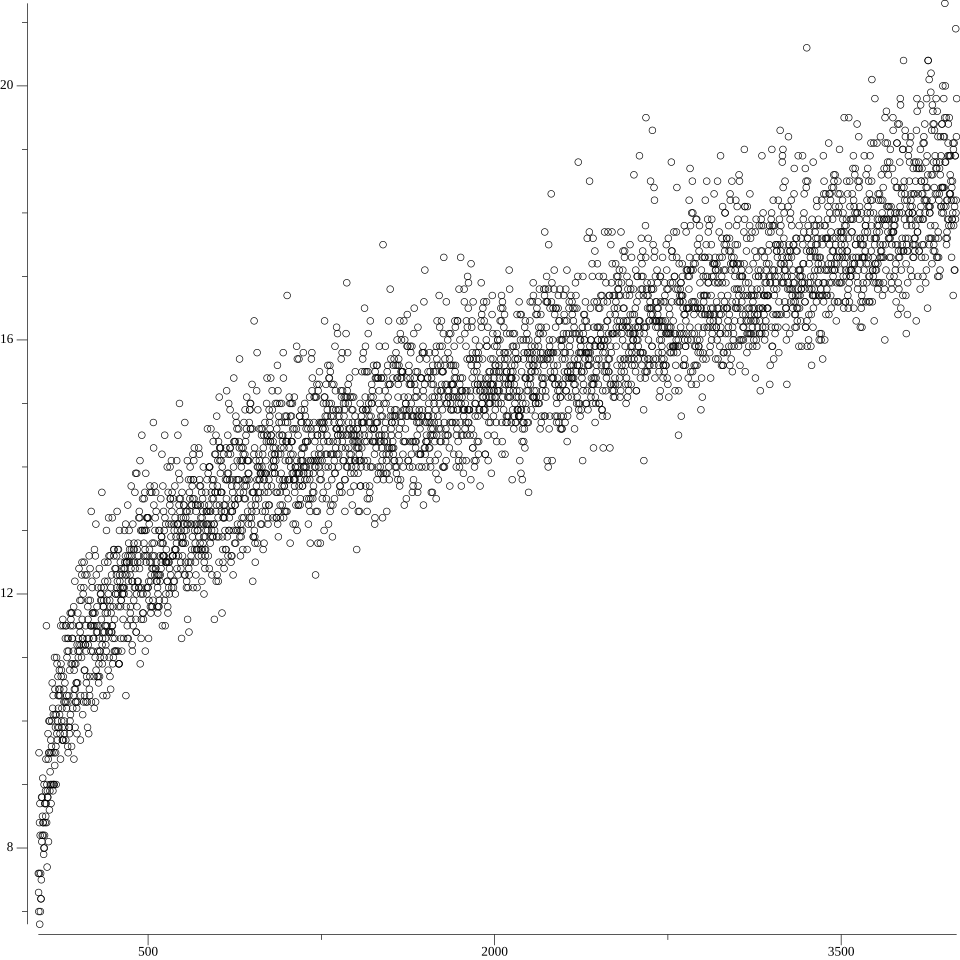
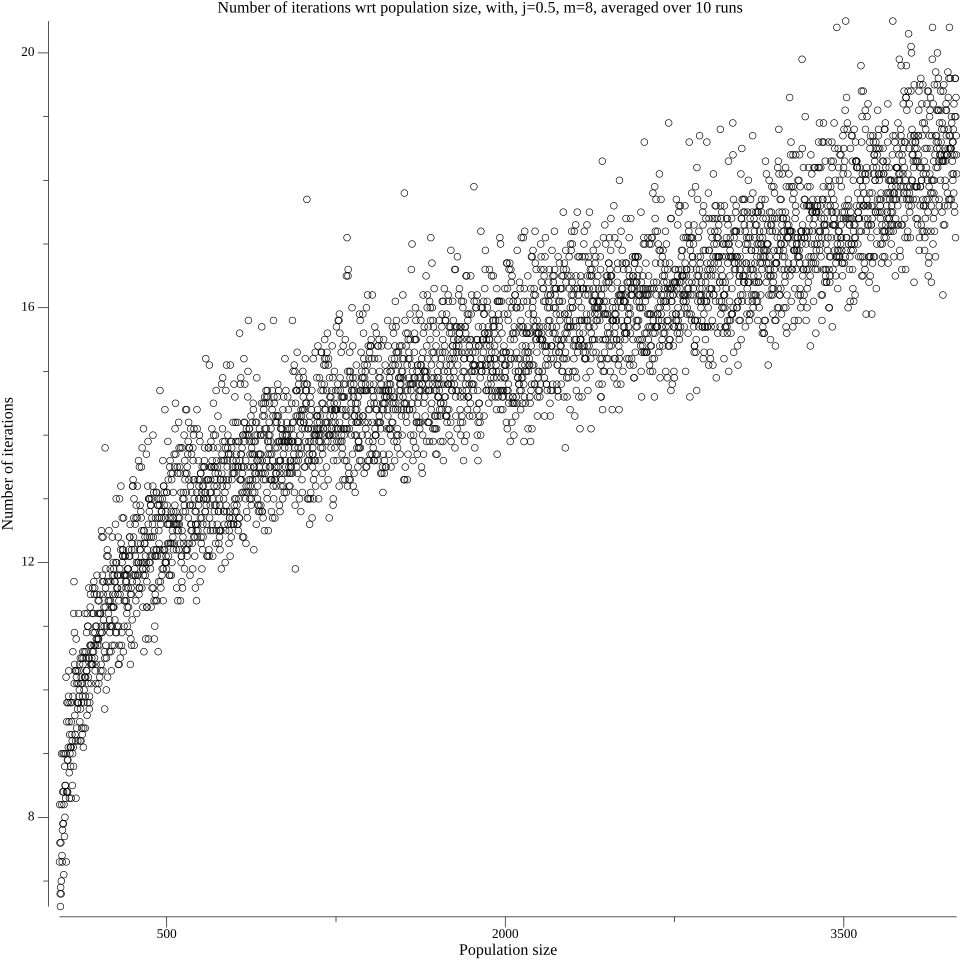
add more plots, fix some things, TODO done

diff --git a/projects/agent_based_modelling/assignment_3/batch/batch.go b/projects/agent_based_modelling/assignment_3/batch/batch.go
@@ -1,6 +1,7 @@
 package batch
 
 import (
+	"fmt"
 	"gonum.org/v1/plot"
 	"gonum.org/v1/plot/plotter"
 	"gonum.org/v1/plot/vg"
@@ -50,6 +51,10 @@ func NumOfIterationsPerPopulationSize(popMin, popMax, runs int) {
 	parallelize(functions)
 
 	p := plot.New()
+	p.Title.Text = fmt.Sprintf("Number of iterations wrt population size, with, j=0.5, m=8, averaged over %d runs", runs)
+	p.X.Label.Text = "Population size"
+	p.Y.Label.Text = "Number of iterations"
+
 	scatter, err := plotter.NewScatter(xys)
 	if err != nil {
 		panic(err)
@@ -98,12 +103,69 @@ func SegIndexPerM(minM, maxM, runs int) {
 	parallelize(functions)
 
 	p := plot.New()
+	p.Title.Text = fmt.Sprintf("Segregation index wrt m, with j=0.5, averaged over %d runs", runs)
+	p.X.Label.Text = "m"
+	p.Y.Label.Text = "Segregation index"
+
 	scatter, err := plotter.NewScatter(xys)
 	if err != nil {
 		panic(err)
 	}
 	p.Add(scatter)
 	if err = p.Save(10*vg.Inch, 10*vg.Inch, "seg_index_per_m.png"); err != nil {
+		panic(err)
+	}
+}
+
+func SegIndexPerJFrac(minJFrac, maxJFrac float64, paramM, runs int) {
+	mu := sync.Mutex{}
+	minJ := int(float64(paramM) * minJFrac)
+	maxJ := int(float64(paramM) * maxJFrac)
+	amount := maxJ + 1 - minJ
+	xys := make(plotter.XYs, amount)
+	functions := make([]func(), amount*runs)
+	for i := range amount {
+		xys[i].X = minJFrac + float64(i)*(maxJFrac-minJFrac)/float64(amount)
+		params := model.Params{
+			Size:  BaseSize,
+			Blues: BasePop,
+			Reds:  BasePop,
+			JBlue: minJ + i,
+			JRed:  minJ + i,
+			MBlue: paramM,
+			MRed:  paramM,
+		}
+		for j := range runs {
+			functions[runs*i+j] = func() {
+				m := model.New(params)
+				err := m.Run(BaseMaxSteps)
+				if err != nil {
+					panic(err)
+				}
+				segIndex, err := m.SegIndex()
+				if err != nil {
+					panic(err)
+				}
+				mu.Lock()
+				xys[i].Y += segIndex / float64(runs)
+				mu.Unlock()
+			}
+		}
+	}
+
+	parallelize(functions)
+
+	p := plot.New()
+	p.Title.Text = fmt.Sprintf("Segregation index wrt j, with m=%d, averaged over %d runs", paramM, runs)
+	p.X.Label.Text = "j"
+	p.Y.Label.Text = "Segregation index"
+
+	scatter, err := plotter.NewScatter(xys)
+	if err != nil {
+		panic(err)
+	}
+	p.Add(scatter)
+	if err = p.Save(10*vg.Inch, 10*vg.Inch, "seg_index_per_j.png"); err != nil {
 		panic(err)
 	}
 }

diff --git a/projects/agent_based_modelling/assignment_3/model/animate.go b/projects/agent_based_modelling/assignment_3/model/animate.go
@@ -10,7 +10,6 @@ import (
 )
 
 type AnimateParams struct {
-	FileName string
 	CellSize,
 	Delay,
 	MaxSteps,
@@ -44,7 +43,8 @@ func (m *Model) Animate(params AnimateParams) error {
 		delays = append(delays, params.Delay)
 	}
 
-	f, err := os.Create(params.FileName)
+	fileName := fmt.Sprintf("%s.gif", m.params)
+	f, err := os.Create(fileName)
 	if err != nil {
 		return err
 	}
@@ -58,7 +58,7 @@ func (m *Model) Animate(params AnimateParams) error {
 		},
 	)
 	if err != nil {
-		err = os.Remove(params.FileName)
+		err = os.Remove(fileName)
 		if err != nil {
 			return err
 		}

diff --git a/projects/agent_based_modelling/assignment_3/main.go b/projects/agent_based_modelling/assignment_3/main.go
@@ -1,7 +1,26 @@
 package main
 
-import "main/batch"
+import (
+	"main/model"
+)
 
 func main() {
-	batch.SegIndexPerM(8, 120, 10)
+	params := model.Params{
+		Size:  1000,
+		Blues: 400000,
+		Reds:  400000,
+		JBlue: 30,
+		JRed:  30,
+		MBlue: 50,
+		MRed:  50,
+	}
+	animateParams := model.AnimateParams{
+		CellSize:             1,
+		Delay:                5,
+		MaxSteps:             100,
+		FramesWithFinalState: 10,
+	}
+	if err := model.New(params).Animate(animateParams); err != nil {
+		panic(err)
+	}
 }

diff --git a/projects/agent_based_modelling/assignment_3/model/model.go b/projects/agent_based_modelling/assignment_3/model/model.go
@@ -2,12 +2,20 @@ package model
 
 import (
 	"errors"
+	"fmt"
 	"main/model/agent"
 	"main/model/grid"
 )
 
 type Params struct {
 	Size, Blues, Reds, JBlue, JRed, MBlue, MRed int
+}
+
+func (p Params) String() string {
+	return fmt.Sprintf(
+		"size=%d_blues=%d_reds=%d_jblue=%d_jred=%d_mblue=%d_mred=%d",
+		p.Size, p.Blues, p.Reds, p.JBlue, p.JRed, p.MBlue, p.MRed,
+	)
 }
 
 type Model struct {

diff --git a/TODO.md b/TODO.md
@@ -16,7 +16,8 @@
 - [x] machine learning list 3 pretty jupyter report
 - [x] spanish exercise
 - [x] agent-based modelling list 2
-- [ ] agent-based modelling list 3
+- [x] agent-based modelling list 3
 - [ ] agent-based modelling list 4
 - [x] spanish homework
 - [ ] prepare presentations for unstructured data list 3 and 4
+- [x] spanish homework
